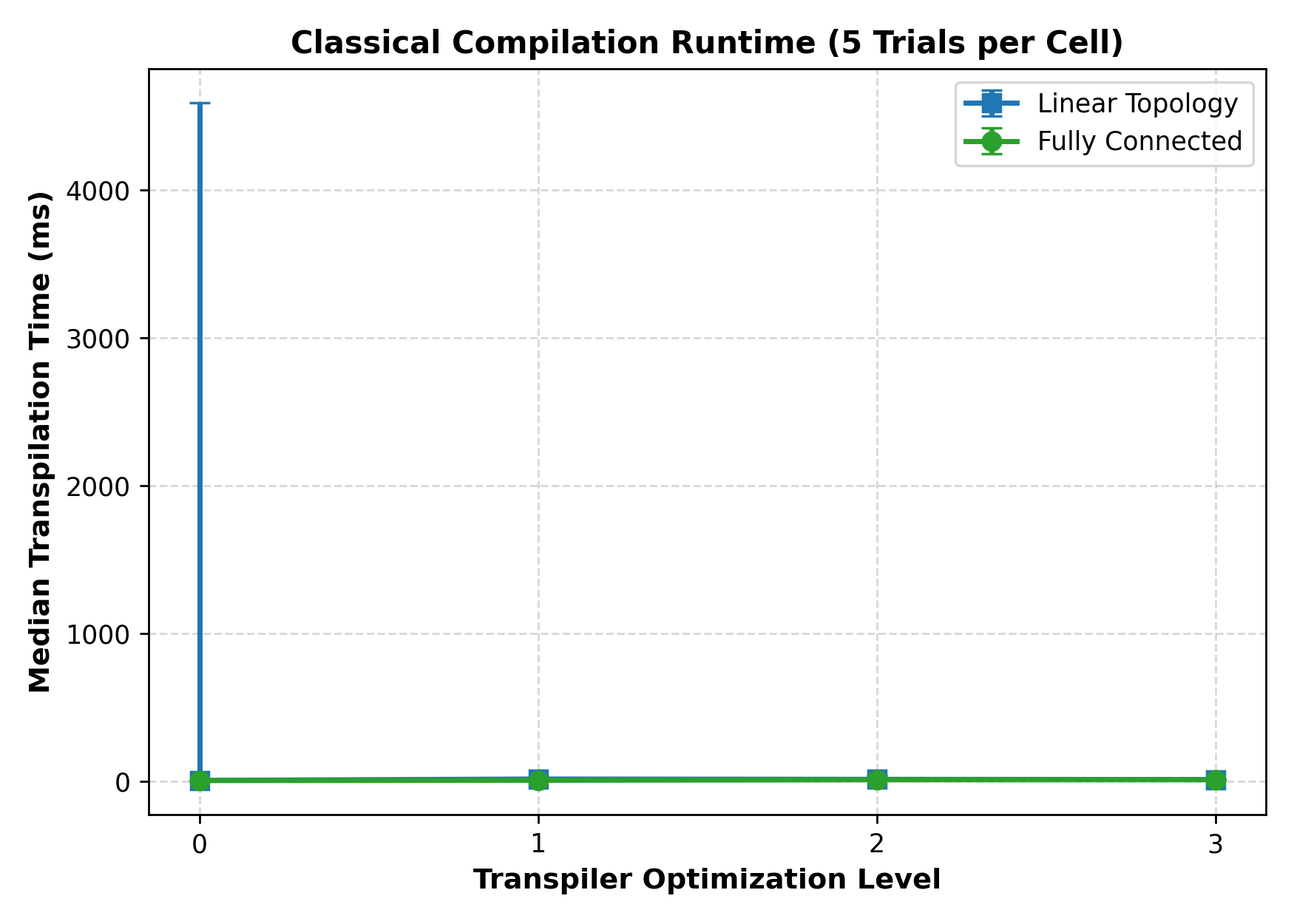
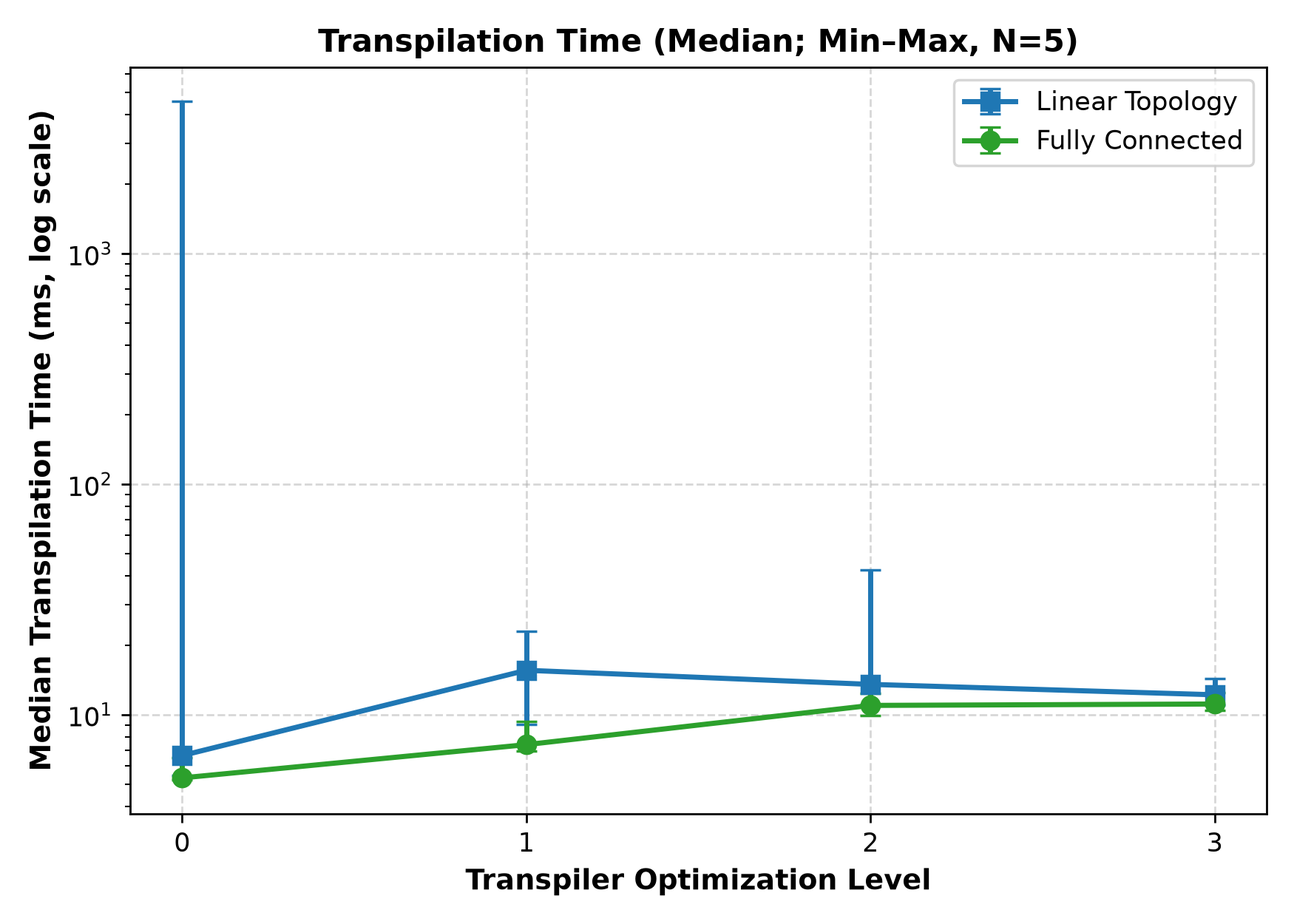
chore: finalize project audit and validation

diff --git a/analysis/data_loader.py b/analysis/data_loader.py
@@ -296,10 +296,23 @@ def audit_compatibility(datasets: Dict[str, DataLoader]) -> Dict[str, Any]:
         python_vers = {r.python_version for r in loader.records}
         basis_gates = {r.basis_gates for r in loader.records}
         seeds = {r.seed_transpiler for r in loader.records}
+        initial_layouts = {r.initial_layout for r in loader.records}
+        routing_methods = {r.routing_method for r in loader.compiled_records}
         topologies = {r.topology for r in loader.compiled_records}
         opt_levels = {r.optimization_level for r in loader.compiled_records}
 
-        sig = f"qiskit={sorted(qiskit_vers)}_basis={sorted(basis_gates)}_seed={sorted(seeds)}"
+        signature_parts = {
+            "qiskit": qiskit_vers,
+            "python": python_vers,
+            "basis": basis_gates,
+            "seed": seeds,
+            "layout": initial_layouts,
+            "routing": routing_methods,
+        }
+        sig = "_".join(
+            f"{key}={sorted(str(value) if value is not None else 'unknown' for value in values)}"
+            for key, values in signature_parts.items()
+        )
         signatures.setdefault(sig, []).append(name)
 
         report["datasets"][name] = {
@@ -309,7 +322,9 @@ def audit_compatibility(datasets: Dict[str, DataLoader]) -> Dict[str, Any]:
             "topologies": sorted(list(topologies)),
             "optimization_levels": sorted([x for x in opt_levels if x is not None]),
             "qiskit_versions": sorted(list(qiskit_vers)),
-            "python_versions": sorted([str(p) for p in python_vers]),
+            "python_versions": sorted(
+                str(p) if p is not None else "unknown" for p in python_vers
+            ),
             "basis_gates": sorted(list(basis_gates)),
             "validation_errors": loader.validation_errors,
         }
@@ -323,6 +338,13 @@ def audit_compatibility(datasets: Dict[str, DataLoader]) -> Dict[str, Any]:
             f"Different Qiskit versions detected across datasets: {all_qiskit}. "
             "Timing comparisons between different versions must not be combined directly; "
             "separate analyses should be maintained."
+        )
+
+    all_python = {ver for ds in report["datasets"].values() for ver in ds["python_versions"]}
+    if len(all_python) > 1:
+        report["notes"].append(
+            f"Different Python versions detected across datasets: {all_python}. "
+            "Timing comparisons across these environments should be interpreted cautiously."
         )
 
     return report

diff --git a/tests/test_data_loader.py b/tests/test_data_loader.py
@@ -1,0 +1,27 @@
+from dataclasses import replace
+
+from analysis.data_loader import DataLoader, audit_compatibility
+
+
+def test_compatibility_groups_separate_python_versions():
+    primary = DataLoader("results/qtrace_results.csv")
+    other_python = DataLoader("results/qtrace_results.csv")
+    other_python.records = [
+        replace(record, python_version="3.13.0")
+        for record in other_python.records
+    ]
+
+    report = audit_compatibility({"primary": primary, "other-python": other_python})
+
+    assert len(report["compatible_groups"]) == 2
+    assert any("Different Python versions" in note for note in report["notes"])
+
+
+def test_compatibility_handles_missing_python_metadata():
+    loader = DataLoader("results/qtrace_results.csv")
+    loader.records = [replace(record, python_version=None) for record in loader.records]
+
+    report = audit_compatibility({"missing-python": loader})
+
+    assert len(report["compatible_groups"]) == 1
+    assert report["datasets"]["missing-python"]["python_versions"] == ["unknown"]

diff --git a/tests/test_experiment_runner.py b/tests/test_experiment_runner.py
@@ -1,4 +1,6 @@
 
+from pathlib import Path
+
 import pytest
 from qiskit import QuantumCircuit
 
@@ -6,6 +8,7 @@ from src.metrics import collect_metrics
 from src.experiment_runner import (
     GRAPH_EDGES,
     GAMMA,
+    OUTPUT_PATH,
     build_qaoa_circuit,
     run_experiments,
 )
@@ -19,6 +22,10 @@ from src.validate_qaoa import (
 def test_graph_has_four_vertices_and_four_edges():
     assert len(set(v for edge in GRAPH_EDGES for v in edge)) == 4
     assert len(GRAPH_EDGES) == 4
+
+
+def test_primary_results_path_is_independent_of_working_directory():
+    assert OUTPUT_PATH == Path(__file__).resolve().parents[1] / "results" / "qtrace_results.csv"
 
 
 def test_qaoa_circuit_has_four_qubits():

diff --git a/experiments/connectivity/plot_connectivity.py b/experiments/connectivity/plot_connectivity.py
@@ -150,8 +150,9 @@ def plot_transpilation_time(df: pd.DataFrame, out_dir: Path) -> Path:
         )
 
     ax.set_xlabel("Transpiler Optimization Level", fontsize=11, fontweight="bold")
-    ax.set_ylabel("Median Transpilation Time (ms)", fontsize=11, fontweight="bold")
-    ax.set_title("Classical Compilation Runtime (5 Trials per Cell)", fontsize=12, fontweight="bold")
+    ax.set_yscale("log")
+    ax.set_ylabel("Median Transpilation Time (ms, log scale)", fontsize=11, fontweight="bold")
+    ax.set_title("Transpilation Time (Median; Min–Max, N=5)", fontsize=12, fontweight="bold")
     ax.set_xticks([0, 1, 2, 3])
     ax.legend(frameon=True)
     ax.grid(True, linestyle="--", alpha=0.5)

diff --git a/src/experiment_runner.py b/src/experiment_runner.py
@@ -23,7 +23,8 @@ GAMMA = 0.5
 BETA = 0.25
 NUM_TRIALS = 5
 
-OUTPUT_PATH = Path("results") / "qtrace_results.csv"
+REPO_ROOT = Path(__file__).resolve().parents[1]
+OUTPUT_PATH = REPO_ROOT / "results" / "qtrace_results.csv"
 
 
 def build_qaoa_circuit() -> QuantumCircuit:

diff --git a/FINAL_AUDIT_REPORT.md b/FINAL_AUDIT_REPORT.md
@@ -1,0 +1,203 @@
+# Q-TRACE Final Repository Audit
+
+**Audit date:** 19 October 2026 (Asia/Calcutta)<br>
+**Repository:** `D:\Docs\q-trace`<br>
+**Branch:** `fix/integrated-report-consistency`<br>
+**HEAD at audit start:** `a48183c1dd28f27bb4a9dea290dc4fb552f94b44` (`docs: update README and integrated analysis`)
+
+## 1. Executive Summary
+
+Q-TRACE is a coherent, small academic benchmarking project. The current implementation, datasets, and primary integrated analysis support the reported structural results. I independently reran the test suite and QAOA validation: **31 tests passed**, the expected Max-Cut value was **2.708073 / 4**, the optimal-cut probability was **0.358374**, and transpilation preserved the measured output distributions for all eight topology/optimization configurations to within **4.2×10⁻¹⁶**.
+
+The audit found and corrected a compatibility-grouping defect, a working-directory-dependent output path, a missing-license-file reference, and a stale connectivity timing summary. The connectivity timing plot source uses a labeled logarithmic y-axis, and the tracked PNG was subsequently regenerated from the current plot function and saved CSV and visually reviewed.
+
+**Readiness verdict:** Ready for an academic demonstration and static submission of the code, QAOA validation, structural findings, and reviewed connectivity timing figure. Timing claims should remain exploratory and dataset-specific. No hardware performance or quantum advantage is demonstrated.
+
+## 2. Repository State and Inventory
+
+At audit start, the working tree was clean, with no untracked files. The current branch tracked `origin/fix/integrated-report-consistency` and had no reported ahead/behind commits. The fetch/push remote was `https://github.com/mahimagalla/q-trace.git`. No branch switch, reset, history rewrite, commit, push, or merge was performed.
+
+The repository had **46 tracked files** at audit start, in these groups:
+
+| Area | Contents and purpose |
+|---|---|
+| Root | README, dependency pins, and `.gitignore` |
+| `src/` | QAOA circuit and baseline experiment construction, transpilation configuration, metric collection, validation, and simple plots |
+| `experiments/connectivity/` | Connectivity runner, connectivity plots, and connectivity findings |
+| `experiments/optimization/` | Optimization-level runner, plots/report generation, and optimization findings |
+| `analysis/` | CSV loader and compatibility audit, Pareto calculations, integrated analysis, plotting, and report |
+| `results/` | Three CSV datasets and generated trade-off Markdown report |
+| `plots/` | 15 tracked PNG figures spanning root, connectivity, optimization, and integrated analysis |
+| `tests/` | Circuit/runner, connectivity, optimization, and Pareto tests |
+
+The local `circuits/` directory contained no tracked files. There is no `LICENSE` file. At audit start, ignored local state included `.venv/`, `.pytest_cache/`, and Python `__pycache__/` directories; no secret values were inspected or reported. The changes from this audit are listed in Section 5.
+
+## 3. Audit Coverage and Checklist
+
+| Audit area | Status | Evidence / notes |
+|---|---|---|
+| Git state, branch, HEAD, tracking, history, tracked/untracked/ignored inventory | Complete | Captured before edits; short recent history reviewed |
+| README, setup, dependencies, integrated report, experiment reports | Complete | Reviewed tracked documentation and cross-checked claims against CSVs |
+| Source modules and plot/report generation code | Complete | Reviewed `src/`, `analysis/`, and both experiment modules |
+| Existing tests | Complete | Full pytest suite rerun after changes |
+| CSV schema, record counts, configuration/trial completeness, structural consistency | Complete | All three CSV files parsed; each compiled configuration has trial IDs 1–5 and consistent structural metrics |
+| QAOA expected value and ideal/transpiled output distributions | Complete | `src.validate_qaoa` executed successfully |
+| Pareto outputs and stored trade-off report | Complete | Recomputed primary frontier; stored Markdown exactly matches an in-memory render |
+| Saved and generated plot integrity | Complete | All 15 tracked PNGs decoded; all 12 plot functions rendered and decoded to a temporary directory. The connectivity timing PNG was regenerated from current code and CSV and matched the temporary render pixel-for-pixel |
+| Hardware execution, noise-model fidelity, and physical runtime | Not in project scope | No hardware or noise-model evidence is present; none was inferred |
+| External PR review or team-member confirmation | Not performed | Audit was confined to the local repository and its recorded Git history |
+
+## 4. Findings
+
+Severity scale: **Critical** means the project cannot safely or correctly be used; **High** means a major result or workflow is invalid; **Medium** means a material correctness, interpretation, or presentation issue; **Low** means a limited reproducibility or maintainability issue; **Informational** records scope or context without indicating a defect.
+
+### Confirmed defects corrected
+
+| Severity | Evidence and impact | Resolution |
+|---|---|---|
+| Medium | `analysis/data_loader.py` claimed to audit Python versions and layouts, but its compatibility grouping key included neither. Datasets with the same Qiskit version but different Python versions/layouts could be marked compatible, which is unsafe for timing comparisons. | Added Python version, initial layout, and routing method to the compatibility signature; missing Python metadata is represented as `unknown`; added regression tests. Notes now call out Python-version differences. |
+| Medium | `experiments/connectivity/CONNECTIVITY_FINDINGS.md` reported Linear Opt 0 median as 5.49 ms and the difference from Fully Connected as 0.17 ms (3.2%). The current CSV’s five Linear Opt 0 trials have median **6.6507 ms**; Fully Connected has median **5.3233 ms**. | Corrected the report to **6.65 ms**, **+1.33 ms (+24.9%)**. Also removed unverified cold-start/causal explanations for timing differences and documented the outlier cause as unknown. |
+| Medium | `plots/connectivity/connectivity_transpilation_time.png` had a linear axis spanning to the observed 4.59-second trial, making the other timing points unreadable near zero. | Changed the plot generator to a labeled logarithmic y-axis and regenerated the canonical PNG from the current code and CSV; visually reviewed the result. |
+| Low | `src/experiment_runner.py` used a path relative to the caller’s current directory for `results/qtrace_results.csv`; importing and saving from another working directory could write the canonical file elsewhere. | Anchored the output path to the repository root and added a regression test for the resolved path. |
+| Low | README’s license section referred readers to a nonexistent `LICENSE` file. | README now states that the repository does not declare a license and warns against assuming reuse permission. |
+
+### Confirmed limitations and unresolved risks
+
+| Severity | Evidence and impact | Status |
+|---|---|---|
+| Medium | The three CSVs do not all describe one timing environment. `qtrace_results.csv` and `optimization_experiments.csv` record Qiskit 2.5.2 / Python 3.14.4; `connectivity_experiments.csv` records Qiskit 2.5.1 / Python 3.14.2. Do not pool their timings. | Documented in the integrated report and compatibility audit; structural results agree across corresponding configurations. |
+| Medium | Five trials per configuration and fixed transpiler seed provide only exploratory timing evidence. Connectivity Linear Opt 0 includes a **4.587496-second** observation among approximately 5–7 ms trials; its cause is unknown. The OS/CPU/host and process-load protocol are not recorded in the CSV. | Preserved and called out; no trial was discarded. Runtime conclusions remain preliminary. |
+| Low | `DataLoader` checks required columns, parses values, and checks within-configuration structural consistency, but does not enforce the full expected configuration/trial matrix, unique trial IDs, positive finite times, or uniform metadata. | The checked-in datasets pass independent completeness checks. Additional semantic validation and tests are recommended before accepting arbitrary future CSVs. |
+| Low | Plot generation has no automated test suite. Temporary smoke checks passed, but future figure/data regressions would not be caught by pytest. | Recommended as follow-up; no plotting dependency was added. |
+| Informational | The project has no declared license file. | Accurately disclosed in README; maintainers must choose licensing terms if redistribution rights need to be explicit. |
+
+No Critical or High severity defect was found. The five-trial sample and unrecorded host conditions limit timing reproducibility, but do not invalidate the measured structural counts or the QAOA distribution check.
+
+## 5. Fixes Applied
+
+| File | Change |
+|---|---|
+| `analysis/data_loader.py` | Compatibility keys now distinguish Python version, initial layout, and routing method; missing Python metadata is handled safely; Python differences produce an audit note. |
+| `tests/test_data_loader.py` | Added regression coverage for Python-version grouping and absent Python-version metadata. |
+| `src/experiment_runner.py` | Resolve the primary CSV output path from the repository root rather than current working directory. |
+| `tests/test_experiment_runner.py` | Added a check that the primary results path is repository-anchored. |
+| `experiments/connectivity/CONNECTIVITY_FINDINGS.md` | Corrected the saved-data median and derived comparison; removed unsupported causal wording for timing; clarified that the outlier cause is unknown. |
+| `experiments/connectivity/plot_connectivity.py` | Use a labeled logarithmic time axis so the 4.59-second outlier does not flatten the millisecond-scale observations. |
+| `plots/connectivity/connectivity_transpilation_time.png` | Regenerated only this timing figure from the corrected plotting function and current connectivity CSV; confirmed it matches a temporary render pixel-for-pixel. |
+| `README.md` | Replace the broken `LICENSE` reference with the actual no-license status. |
+| `FINAL_AUDIT_REPORT.md` | Added this audit record. |
+
+No CSV or experiment result was overwritten. No experiment runner or plotting script entry point was run. Plot functions were called directly with temporary output paths during audit validation; the later requested regeneration changed only `plots/connectivity/connectivity_transpilation_time.png`.
+
+## 6. Validation Results
+
+### Environment
+
+Validation used the repository’s `.venv` on Windows 64-bit:
+
+- Python **3.14.4**
+- Qiskit **2.5.2**
+- pandas **3.0.6**
+- NumPy **2.5.4**
+- Matplotlib **3.11.2**
+- pytest **9.1.1**
+
+`requirements.txt` pins the runtime libraries used by the project. It does not pin pytest or specify a Python-version constraint; README setup installs pytest separately.
+
+### Checks run
+
+| Command/check | Result |
+|---|---|
+| `.venv\Scripts\python.exe -m pytest -q` | **Passed: 31 tests** (3.44 seconds on final run) |
+| `.venv\Scripts\python.exe -m pytest -v` | **Passed: 31 tests** (3.92 seconds during final working-tree validation) |
+| `.venv\Scripts\python.exe -m src.validate_qaoa` | **Passed**: expected value, optimal probability, and all eight distribution checks passed |
+| `.venv\Scripts\python.exe -m compileall -q analysis experiments src tests` | **Passed**: no syntax/bytecode compilation errors |
+| DataLoader audit over all three CSVs | **Passed**: 40, 41, and 40 rows; eight compiled configurations per file; no loader validation errors |
+| Independent completeness check | **Passed**: each compiled configuration has five records with trial IDs 1–5 and identical structural metrics across its trials |
+| `results/tradeoff_analysis.md` consistency | **Passed**: exact match to a fresh in-memory render from `results/qtrace_results.csv` |
+| Primary Pareto calculation | **Passed**: `fully_connected / Opt 0` is the sole frontier member for the documented three minimized objectives |
+| Existing PNG integrity | **Passed**: all 15 tracked PNGs opened and decoded |
+| Temporary plot smoke check | **Passed**: all 12 integrated, connectivity, and optimization plot functions generated decodable PNGs under a temporary directory; temporary files were removed |
+| `git diff --check` | **Passed**: no whitespace errors |
+| Connectivity timing PNG validation | **Passed**: PNG opens as 1750 × 1250 RGBA; pixel-for-pixel identical to a temporary render from `plot_transpilation_time()` using `results/connectivity_experiments.csv`; logarithmic axis label, title, series, and legend visually reviewed |
+
+The first temporary-plot attempt used the host’s restricted system temp directory and failed on file permissions. Repeating with a temporary directory inside the repository workspace passed. Matplotlib emitted a benign font-weight fallback (`semibold` to `700`) during the temporary plot render. The later timing-plot check used a temporary output directory and confirmed the canonical PNG is identical to the current-code render.
+
+## 7. Scientific Validation
+
+### Benchmark and circuit
+
+The implementation uses the four-vertex cycle (C_4), with edges ((0,1),(1,2),(2,3),(3,0)), (p=1), γ = 0.5, and β = 0.25. The cost Hamiltonian is (H_C=\sum_{(u,v)\in E}(I-Z_uZ_v)/2). The circuit uses `RZZ(-gamma)` for each edge and `RX(2*beta)` for each mixer qubit. The RZZ sign implements the cost unitary up to its global phase. The classical cut calculation reverses Qiskit’s displayed bitstring order before indexing graph vertices.
+
+Independent execution of the project validator returned:
+
+- Expected cut value: **2.708073 out of 4**.
+- Probability of a maximum cut: **0.358374**.
+- Maximum absolute output-probability difference after transpilation: between **2.776×10⁻¹⁶** and **4.163×10⁻¹⁶** across all eight configurations, below the code’s `1e-8` tolerance.
+
+The comparison validates the measured output distributions, which is the relevant quantity for this computational-basis Max-Cut readout. It is not a hardware-fidelity test.
+
+### Structural results
+
+All three CSVs contain the same structural metrics for matching configurations:
+
+| Topology | Optimization levels | 1Q gates | CX gates | Gate-only depth | Total operations |
+|---|---|---:|---:|---:|---:|
+| Linear | 0–1 | 12 | 14 | 18 | 30 |
+| Linear | 2–3 | 17 | 12 | 18 | 33 |
+| Fully connected (K_4) | 0–3 | 12 | 8 | 14 | 24 |
+
+The logical baseline has 8 one-qubit operations, 4 RZZ operations, gate-only depth 6, and 4 measurements (16 total operations). Under the chosen `['u', 'cx']` basis and current transpilation configuration, eight CX gates were observed for fully connected connectivity. This does not establish a universal theoretical lower bound. The fully connected coupling map is an idealized complete graph; the linear map is the bidirectional chain (0-1-2-3). The non-local problem edge ((3,0)) distinguishes the two maps.
+
+The counts and depth are structural indicators. They do not directly quantify hardware fidelity, calibrated error, pulse duration, scheduling, or quantum execution time. `explicit_swap_count == 0` does not establish that connectivity incurred no routing cost because SWAPs can be decomposed into CX gates.
+
+## 8. Data and Figure Integrity
+
+| Dataset | Rows | Environment recorded | Structural / record checks |
+|---|---:|---|---|
+| `results/qtrace_results.csv` | 40 | Qiskit 2.5.2, Python 3.14.4 | 8 × 5 compiled trials; complete trial IDs; consistent structural metrics |
+| `results/optimization_experiments.csv` | 40 | Qiskit 2.5.2, Python 3.14.4 | 8 × 5 compiled trials; complete trial IDs; consistent structural metrics |
+| `results/connectivity_experiments.csv` | 41 | Qiskit 2.5.1, Python 3.14.2 | 40 compiled trials plus one baseline; 8 × 5 compiled trials; complete IDs and consistent structural metrics |
+
+The primary dataset and dedicated optimization dataset agree structurally but have different timing medians despite the same recorded Qiskit/Python versions (for example, Fully Connected Opt 0 is 8.74 ms versus 5.99 ms; Linear Opt 0 is 13.24 ms versus 4.28 ms). The host and OS are not encoded in those CSV records, so these timings must remain attached to their dataset and should not be pooled. The connectivity dataset has different software versions and its distinct timing outlier. The integrated report correctly uses `qtrace_results.csv` as its primary quantitative dataset; `results/tradeoff_analysis.md` matches the same source exactly.
+
+All existing PNGs were confirmed readable. Temporary regenerations exercised all plot functions against their intended datasets. The tracked `plots/connectivity/connectivity_transpilation_time.png` was regenerated using the current `plot_transpilation_time()` function and `results/connectivity_experiments.csv`. Its logarithmic y-axis is labeled, the title identifies median and min–max with N=5, all eight configurations and ranges are visible, and the legend is readable. It retains the 4.59-second maximum; the cause of that outlier remains unknown.
+
+## 9. Limitations
+
+- The benchmark covers one four-qubit, one-layer QAOA instance; it does not establish behavior for larger circuits, other graphs, or other algorithms.
+- Timing uses only five trials per cell, a fixed transpiler seed, no documented warm-up protocol, and no recorded CPU/host/process-load details. Runtime comparisons are preliminary and environment-sensitive.
+- The connectivity dataset contains a single large outlier. Its cause is unknown and it was retained.
+- The loader does not yet reject incomplete trial matrices or duplicate trial IDs for arbitrary future datasets, even though all current datasets passed those checks independently.
+- No hardware backend execution, noise-model comparison, physical error-rate estimate, or quantum-advantage analysis was performed.
+- No project license is declared in the repository.
+- The connectivity, optimization, and integrated plots have temporary smoke validation, but no automated plotting tests are in the committed suite.
+
+## 10. Project Quality Assessment
+
+**Strengths:** The project separates baseline, experiment runners, analysis, and plotting; stores per-trial CSV data; fixes important transpiler factors (basis, layout, seed, optimization level); reports structural metrics separately from classical compile time; includes a reproducible statevector validator; computes Pareto frontiers with strict minimization semantics; and uses cautious scope language in its integrated analysis. The tests exercise actual transpilation and the result count is now independently verified.
+
+**Weaknesses:** Timing evidence is statistically small and has environment/run-to-run variation; metadata does not identify host hardware or a warm-up protocol; CSV validation does not yet enforce all completeness/uniqueness invariants; plot code has no persistent automated smoke tests. The repository also has no license file.
+
+## 11. Suggested Improvements
+
+### Next reproducibility improvements
+
+1. Preserve per-run environment provenance (OS, CPU/host class, software versions, seed, and timing protocol) whenever generating new timing datasets.
+
+### High value
+
+3. Extend `DataLoader` validation to enforce unique `(experiment_id, trial_id)` rows, expected topology/optimization/trial coverage, finite nonnegative timings, and stable run metadata; add malformed/incomplete CSV tests.
+4. Add plotting smoke tests that write to `tmp_path`, assert expected labels/scales/series, and never overwrite canonical artifacts.
+5. Define a warm-up and repeated-run protocol, increase trial counts, and report robust summaries/dispersion before making timing comparisons.
+6. Pin the supported Python version and include the test dependency in a documented development dependency set or lock file.
+
+### Optional research extensions
+
+7. Expand to multiple graph sizes, graph families, QAOA depths, transpiler seeds, and realistic coupling maps.
+8. Add a calibrated noise model or hardware execution only if the project intends to make fidelity or device-performance claims.
+9. Add a project license only after the team selects and confirms the intended terms.
+
+## 12. Final Readiness Verdict
+
+Q-TRACE is **ready for an academic demonstration and static submission** of its code path, QAOA calculations, benchmark-specific structural resource findings, and reviewed connectivity timing figure. The reproduced results and 31 passing tests support that use. Retain the report’s clear caveats about five-trial timing, the unknown outlier cause, and environment differences. The project supports no claim about physical hardware performance, improved fidelity, a universal gate lower bound, or quantum advantage.

diff --git a/experiments/connectivity/CONNECTIVITY_FINDINGS.md b/experiments/connectivity/CONNECTIVITY_FINDINGS.md
@@ -20,7 +20,7 @@ All experimental factors were held strictly constant across comparisons:
 
 | Optimization Level | Metric | Linear Topology | Fully Connected (Ideal) | Routing Overhead |
 |:---:|:---|:---:|:---:|:---:|
-| **Level 0** | Two-qubit gates (CX)<br>Gate-only depth<br>Median time (ms) | 14<br>18<br>5.49 ms | 8<br>14<br>5.32 ms | **+75.0%** (CX overhead)<br>**+28.6%** (Depth overhead)<br>+0.17 ms (+3.2%) |
+| **Level 0** | Two-qubit gates (CX)<br>Gate-only depth<br>Median time (ms) | 14<br>18<br>6.65 ms | 8<br>14<br>5.32 ms | **+75.0%** (CX overhead)<br>**+28.6%** (Depth overhead)<br>+1.33 ms (+24.9%) |
 | **Level 1** | Two-qubit gates (CX)<br>Gate-only depth<br>Median time (ms) | 14<br>18<br>15.59 ms | 8<br>14<br>7.42 ms | **+75.0%** (CX overhead)<br>**+28.6%** (Depth overhead)<br>+8.17 ms (+110.1%) |
 | **Level 2** | Two-qubit gates (CX)<br>Gate-only depth<br>Median time (ms) | 12<br>18<br>13.55 ms | 8<br>14<br>10.98 ms | **+50.0%** (CX overhead)<br>**+28.6%** (Depth overhead)<br>+2.57 ms (+23.4%) |
 | **Level 3** | Two-qubit gates (CX)<br>Gate-only depth<br>Median time (ms) | 12<br>18<br>12.21 ms | 8<br>14<br>11.13 ms | **+50.0%** (CX overhead)<br>**+28.6%** (Depth overhead)<br>+1.08 ms (+9.7%) |
@@ -44,8 +44,8 @@ All experimental factors were held strictly constant across comparisons:
    - Across all optimization levels, critical path depth on Linear connectivity remains locked at 18 due to dependency serialization along the 1D chain.
 
 4. **Transpilation Runtime Considerations:**
-   - Compiling under Linear connectivity generally incurs longer transpilation times than Fully Connected at lower optimization levels (e.g., 15.59 ms vs. 7.42 ms at Level 1) due to the overhead of heuristic routing and swap insertion.
-   - At Level 2 and Level 3, heavy synthesis and optimization passes dominate compilation time for both topologies, narrowing the runtime difference to ~1–2 ms.
+   - Linear connectivity has higher median transpilation times than Fully Connected at Levels 0–3 in this dataset (for example, 15.59 ms vs. 7.42 ms at Level 1). These measurements do not isolate the cause of the timing differences.
+   - At Levels 2 and 3, the observed median differences are 2.57 ms and 1.08 ms, respectively. With five trials per configuration, these timing comparisons are preliminary.
 
 ## 4. Generated Plots
 
@@ -56,6 +56,6 @@ All experimental factors were held strictly constant across comparisons:
 
 ## 5. Experimental Scope & Limitations
 
-- **Timing Sample Size & Variability:** Compilation durations are based on five repeated trials per cell ($N=5$) with a fixed seed (`2026`). While trials exhibit observable execution variability (including cold-start effects and runtime dispersion), the sample size measures variability under fixed compilation settings rather than definitive latency distributions. Strong conclusions regarding classical runtime advantages should therefore be avoided.
+- **Timing Sample Size & Variability:** Compilation durations are based on five repeated trials per cell ($N=5$) with a fixed seed (`2026`). The Linear Level 0 group includes one observed runtime of approximately 4.59 seconds; its cause is unknown. The small sample measures observed runtime variability under fixed compilation settings, not definitive latency distributions. Strong conclusions regarding classical runtime advantages should therefore be avoided.
 - **Software Environment:** All experiments were executed and recorded using Qiskit `2.5.1` and Python `3.14.2` on Windows 64-bit.
 - **Circuit Scope:** These empirical observations are specific to a single 4-qubit QAOA Max-Cut instance at depth $p=1$ with identity initial layout and basis `['u', 'cx']`. They should not be generalized to larger graph instances, arbitrary hardware topologies, or alternate transpiler pass configurations without further empirical studies.

diff --git a/README.md b/README.md
@@ -339,4 +339,4 @@ For comparable experiments, record the Python and Qiskit versions, target basis,
 
 ## License
 
-Refer to the repository's `LICENSE` file for the applicable terms. If no license file exists, the project should not be assumed to be open source solely because it is hosted on GitHub.
+This repository does not include a `LICENSE` file, so no project license is declared here. Do not assume open-source reuse permission solely because the repository is hosted on GitHub.
